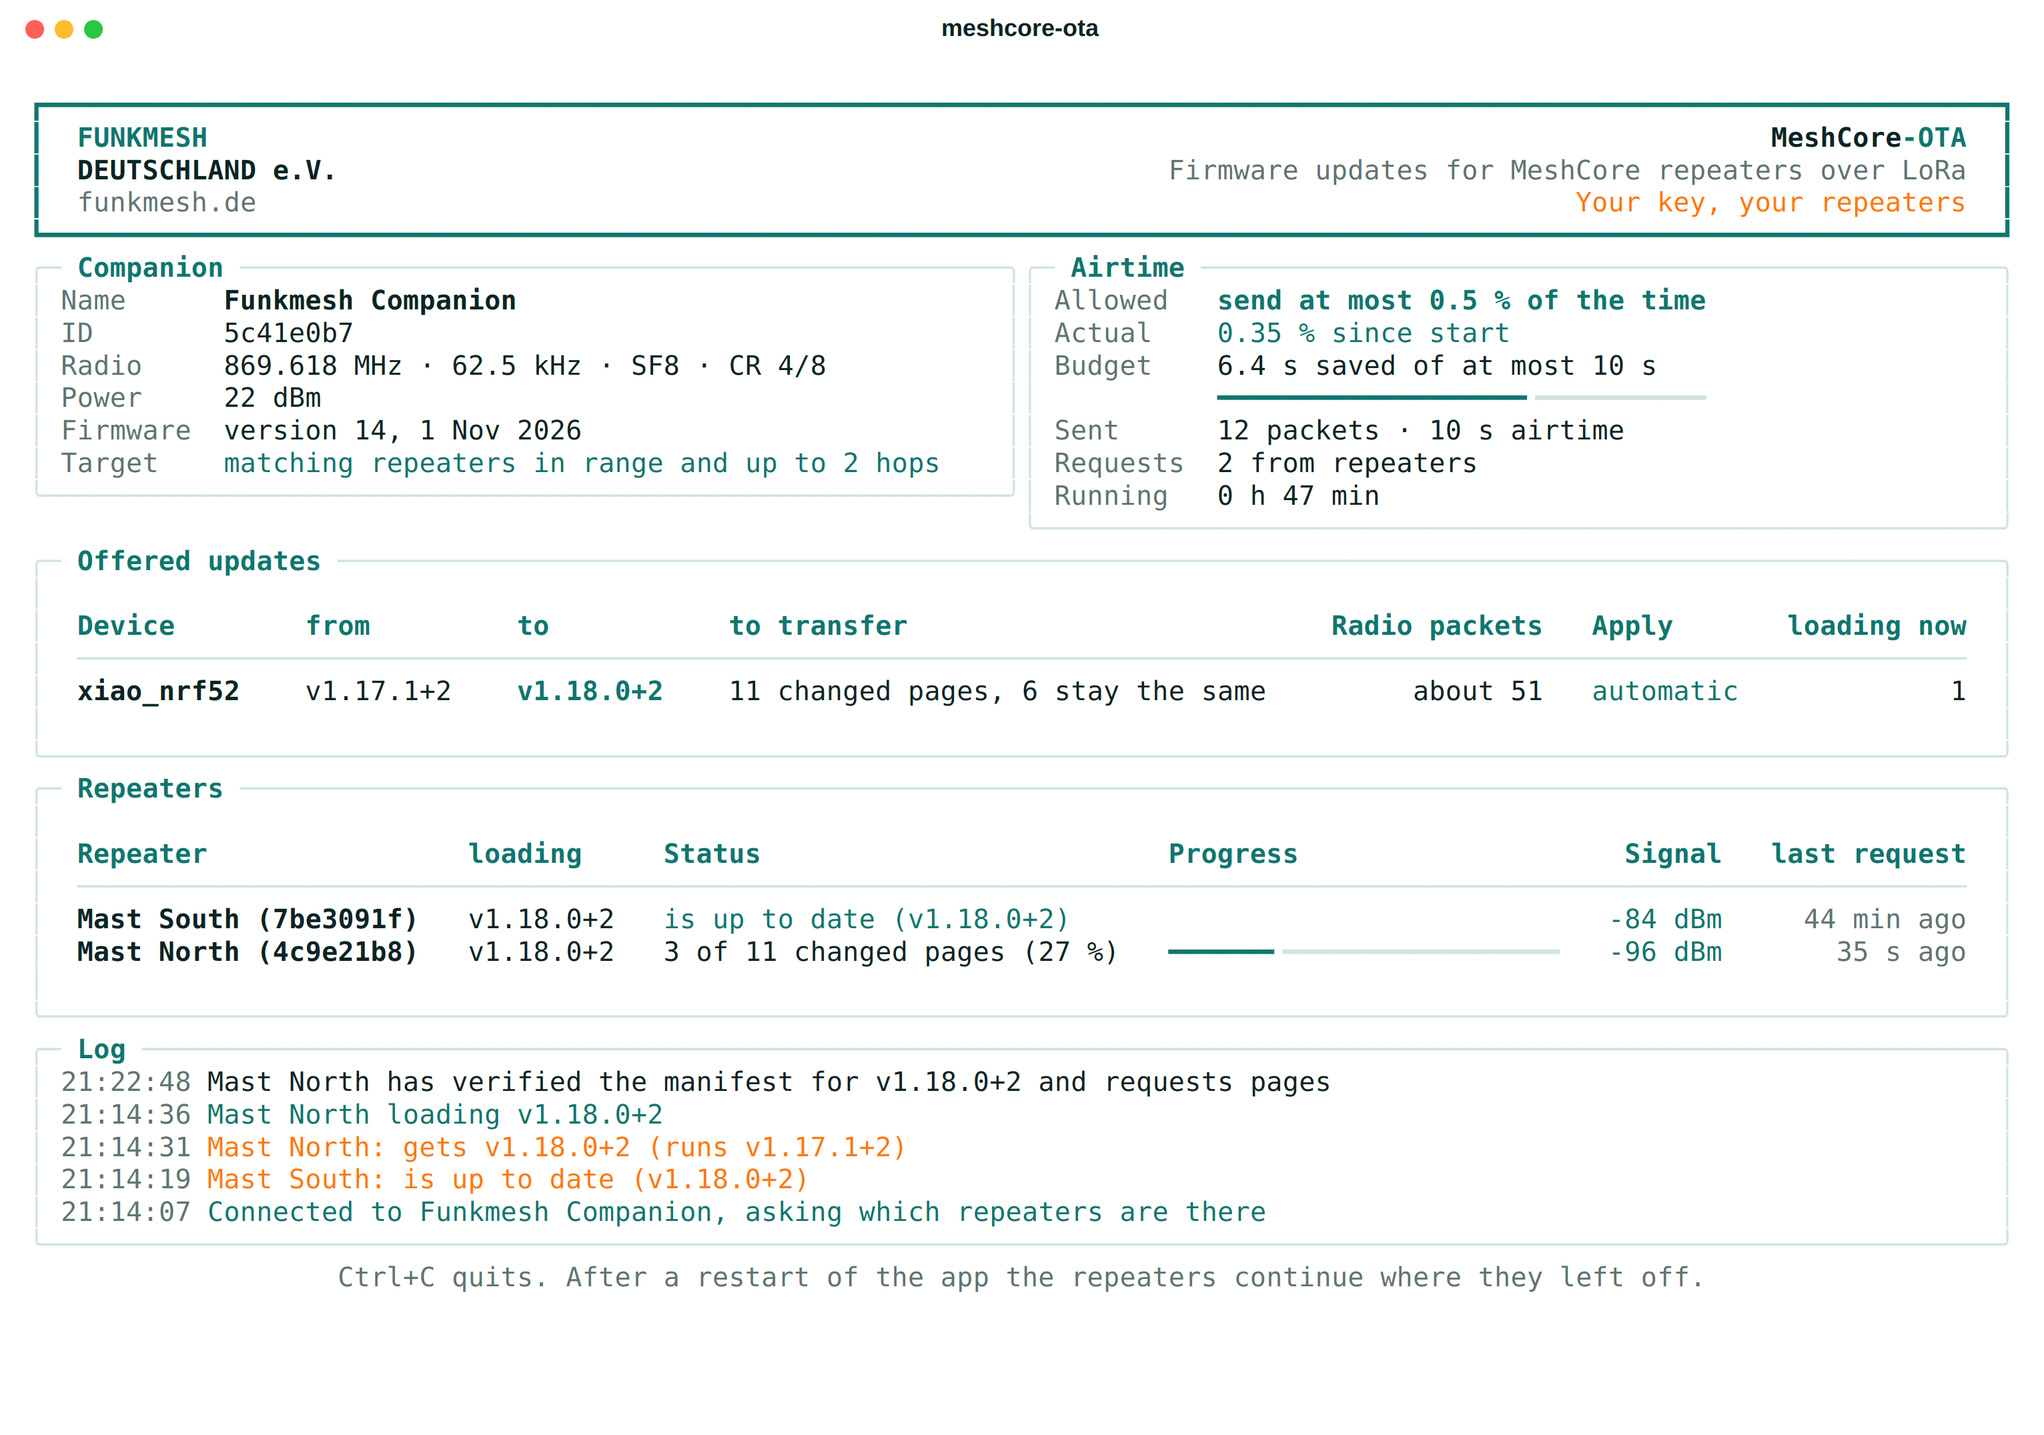
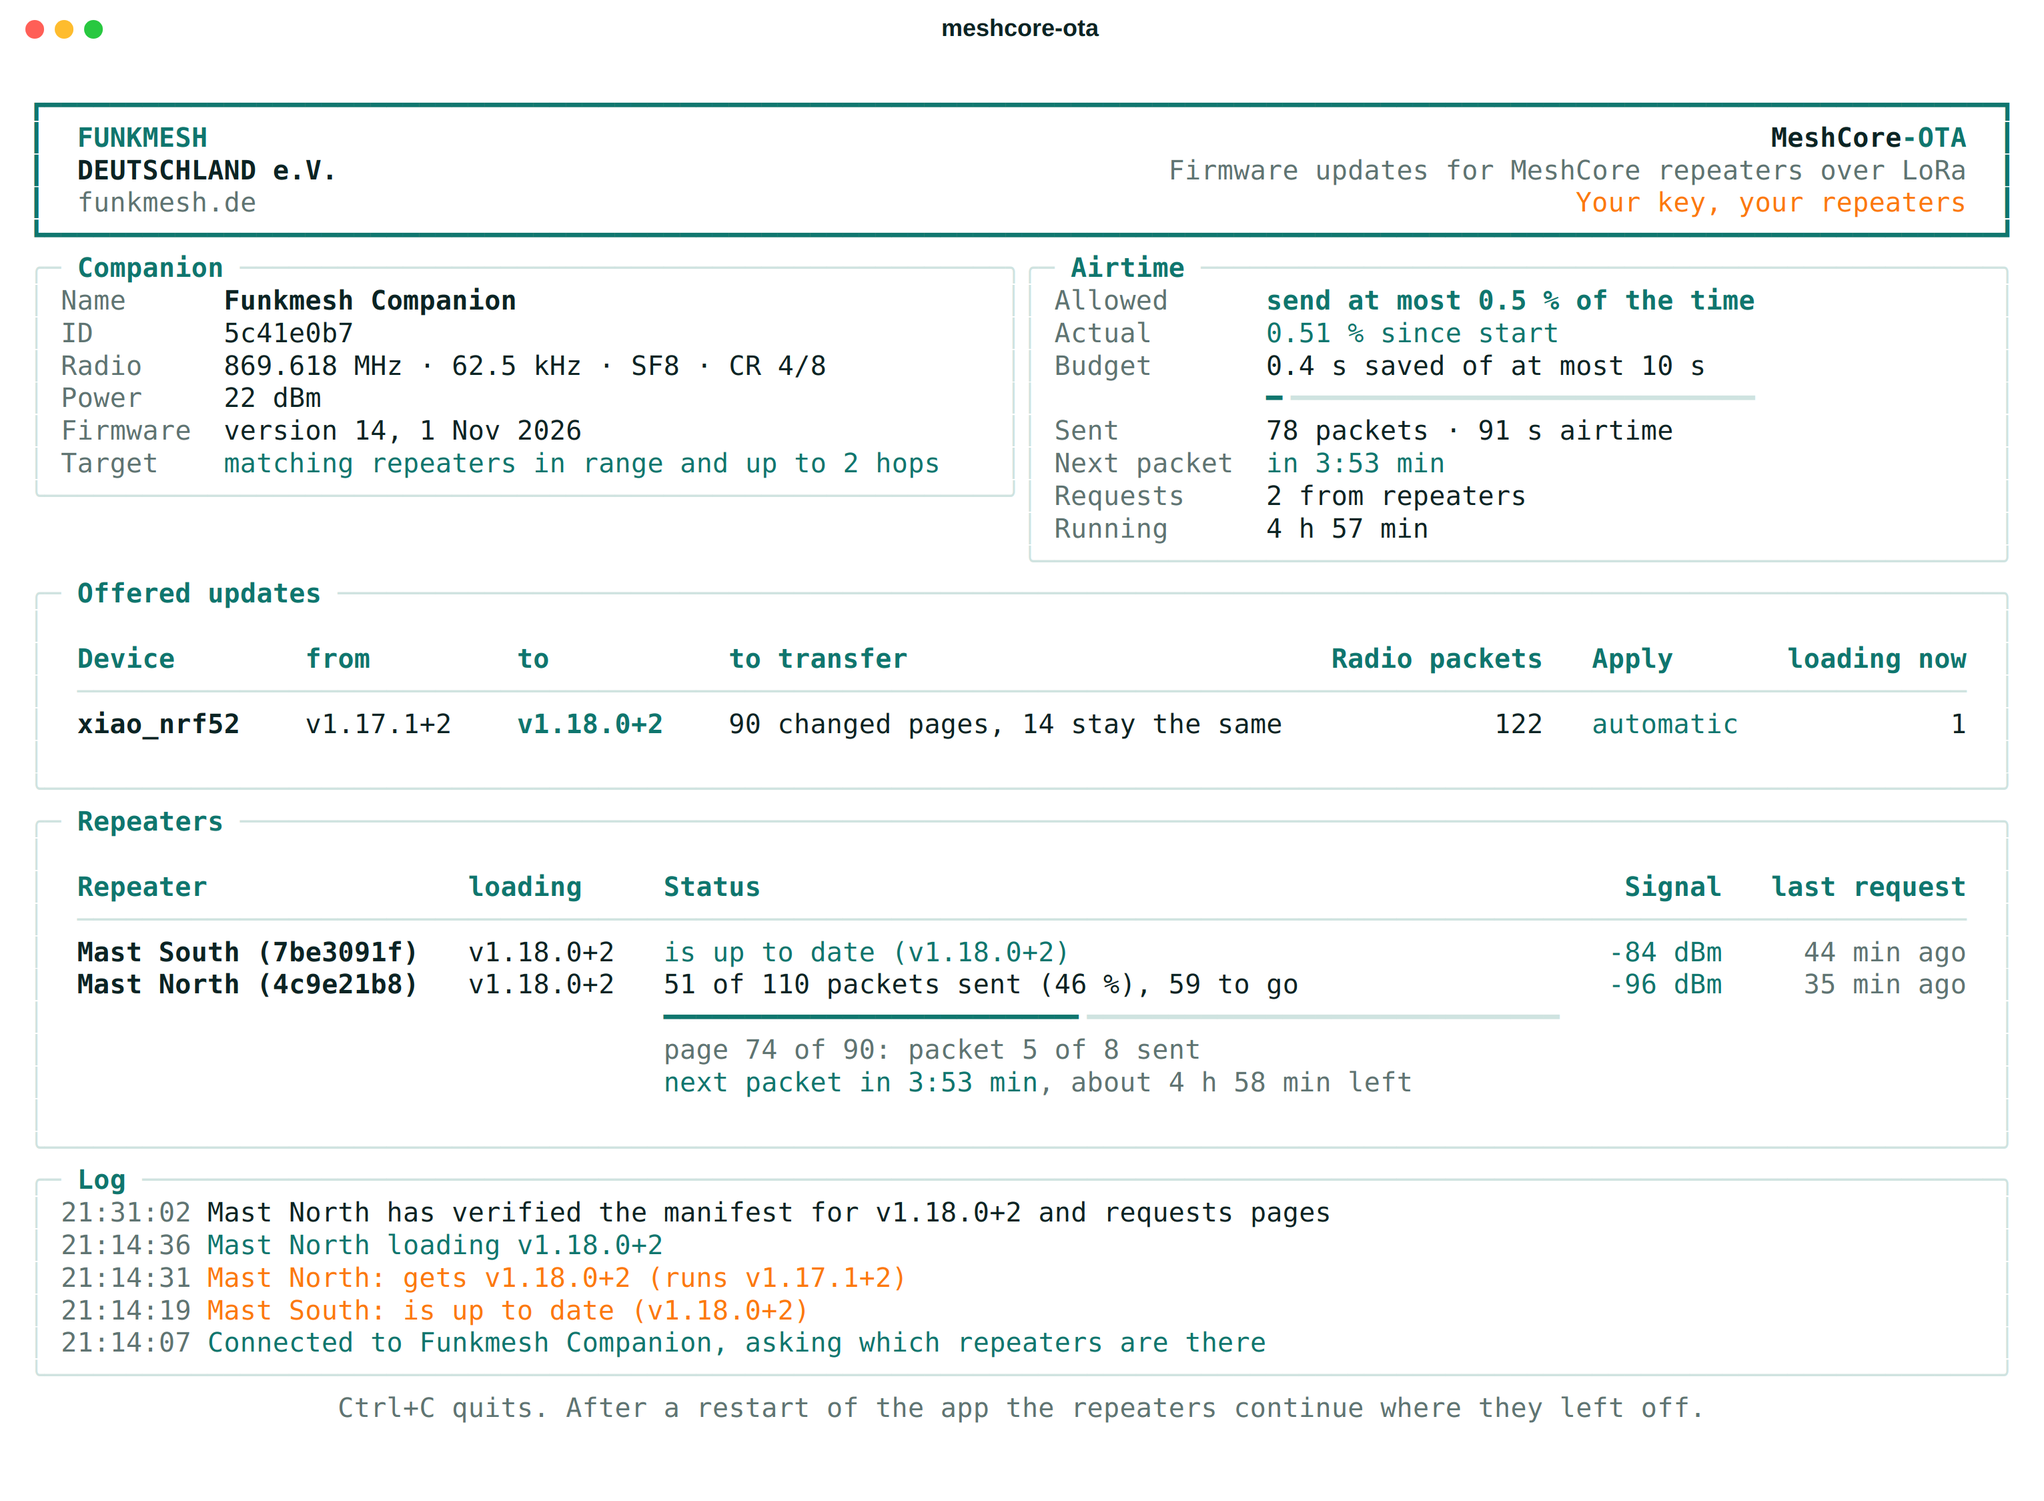
Show the progress packet by packet with the time until the next packet and the remaining time

diff --git a/tools/mcota_ui.py b/tools/mcota_ui.py
@@ -68,7 +68,7 @@ def panel(body, title):
     return Panel(body, title=f"[bold {TEAL}]{title}[/]", title_align="left", border_style=RAIL, box=box.ROUNDED, padding=(0, 1), style=BASE)
 
 
-def bar(done, total, width=28, color=TEAL):
+def bar(done, total, width=None, color=TEAL):
     return ProgressBar(total=max(total, 1), completed=min(done, total), width=width, complete_style=color, finished_style=TEAL, style=RAIL)
 
 
@@ -79,6 +79,13 @@ def age(seconds):
     if seconds < 5400:
         return f"{seconds // 60} min ago"
     return f"{seconds // 3600} h ago"
+
+
+def span(seconds):
+    seconds = int(seconds + 0.5)
+    if seconds < 3600:
+        return f"{seconds // 60}:{seconds % 60:02d} min"
+    return f"{seconds // 3600} h {seconds % 3600 // 60:02d} min"
 
 
 def version_of(manifest):
@@ -125,6 +132,17 @@ class Dashboard:
         left = len(provider.wants.get(bytes.fromhex(key), ()))
         left += sum(1 for entry in provider.repairs if entry[0] == 1)
         return "pages", changed - min(left, changed), changed
+
+    def packets(self, provider, key):
+        total = provider.packets_total()
+        left = min(total, provider.packets_left(bytes.fromhex(key)))
+        return total - left, total, left
+
+    def next_packet(self, provider):
+        wait = provider.next_in()
+        if wait is None and not provider.busy():
+            return None
+        return "next packet now" if wait is None or wait < 1.0 else f"next packet in {span(wait)}"
 
     def track(self):
         for key, (provider, peer) in self.current().items():
@@ -179,6 +197,13 @@ class Dashboard:
             grid.add_row("Budget", Text(f"{budget.ms / 1000:.1f} s saved of at most 10 s", style=DARK))
             grid.add_row("", bar(budget.ms, 10000.0, 30))
             grid.add_row("Sent", f"{sent} packets · {sent_ms / 1000:.0f} s airtime")
+            waits = [p.next_in() for p in self.providers if p.next_in() is not None]
+            if waits:
+                grid.add_row("Next packet", Text("now" if min(waits) < 1.0 else f"in {span(min(waits))}", style=TEAL))
+            elif any(p.busy() for p in self.providers):
+                grid.add_row("Next packet", Text("now", style=TEAL))
+            else:
+                grid.add_row("Next packet", Text("nothing waiting", style=DARK))
             grid.add_row("Requests", f"{sum(p.requests for p in self.providers)} from repeaters")
         minutes = int((time.monotonic() - self.started) // 60)
         grid.add_row("Running", f"{minutes // 60} h {minutes % 60:02d} min")
@@ -193,13 +218,13 @@ class Dashboard:
         for provider in self.providers:
             m = provider.manifest
             changed = sum(1 for block in provider.blocks if block)
-            packets = (len(m) + CHUNK - 1) // CHUNK + sum((len(b) + CHUNK - 1) // CHUNK for b in provider.blocks if len(b) > CHUNK) + (sum(len(b) for b in provider.blocks if 0 < len(b) <= CHUNK) + CHUNK - 1) // CHUNK
-            grid.add_row(board_of(m), getattr(provider, "old_version", "") or m[84:88].hex(), version_of(m), f"{changed} changed pages, {provider.pages - changed} stay the same", f"about {packets}",
+            packets = (len(m) + CHUNK - 1) // CHUNK + provider.packets_total()
+            grid.add_row(board_of(m), getattr(provider, "old_version", "") or m[84:88].hex(), version_of(m), f"{changed} changed pages, {provider.pages - changed} stay the same", str(packets),
                          Text("automatic", style=TEAL) if m[5] & 1 else Text("on command", style=ORANGE), str(loading.get(id(provider), 0) or ""))
         return panel(grid, "Offered updates")
 
     def peers_panel(self):
-        grid = table("Repeaters", [("Repeater", {"style": "bold"}), ("loading", {}), ("Status", {}), ("Progress", {"ratio": 1}),
+        grid = table("Repeaters", [("Repeater", {"style": "bold"}), ("loading", {}), ("Status", {"ratio": 1}),
                                   ("Signal", {"justify": "right"}), ("last request", {"justify": "right", "style": SOFT})])
         rows = 0
         loading = self.current()
@@ -211,20 +236,42 @@ class Dashboard:
             state = self.companion.states.get(key, "")
             rssi = hello.get("rssi")
             signal = Text(f"{hello['hops']} hops" if hello.get("hops", 0) > 1 else "1 hop", style=SOFT) if hello.get("hops") else (Text(f"{rssi} dBm", style=TEAL if rssi is not None and rssi > -100 else ORANGE) if rssi is not None else Text(""))
-            grid.add_row(label, hello["tag"] or "?", Text(state, style=TEAL if state.startswith("is up to date") else ORANGE), Text(""), signal, age(finder.now() - hello["at"]))
+            grid.add_row(label, hello["tag"] or "?", Text(state, style=TEAL if state.startswith("is up to date") else ORANGE), signal, age(finder.now() - hello["at"]))
             rows += 1
         for key, (provider, peer) in sorted(loading.items()):
             label = f"{self.name(key)} ({key})" if self.name(key) else key
             stage, done, total = self.progress(provider, key, peer)
+            upcoming = self.next_packet(provider)
+            detail = None
             if stage == "manifest":
-                status = Text(f"manifest, part {done} of {total}", style=ORANGE)
-            elif done >= total:
-                status = Text(f"all {total} changed pages sent" if total != 1 else "the one changed page sent", style=f"bold {TEAL}")
+                status = Text(f"manifest, packet {done} of {total} sent", style=ORANGE)
+                upcoming = Text(upcoming, style=TEAL) if upcoming else Text("waiting for the repeater", style=SOFT)
             else:
-                status = Text(f"{done} of {total} changed pages ({100 * done // max(total, 1)} %)")
+                sent, packets, left = self.packets(provider, key)
+                now = provider.current()
+                if left == 0:
+                    status = Text(f"all {packets} packets sent, {total} changed pages" if packets != 1 else "the one packet sent", style=f"bold {TEAL}")
+                    upcoming = Text("waiting for the repeater", style=SOFT)
+                else:
+                    status = Text(f"{sent} of {packets} packets sent ({100 * sent // max(packets, 1)} %), {left} to go")
+                    if now and now[0] == 1 and now[3] > 1:
+                        detail = Text(f"page {min(done + 1, total)} of {total}: packet {now[2]} of {now[3]} sent", style=SOFT)
+                    else:
+                        detail = Text(f"{done} of {total} changed pages sent", style=SOFT)
+                    upcoming = Text(upcoming or "next packet now", style=TEAL)
+                    upcoming.append(f", about {span(provider.time_left(bytes.fromhex(key)))} left", style=SOFT)
+                done, total = sent, packets
+            cell = Table.grid(expand=True)
+            cell.add_column(ratio=1)
+            cell.add_row(status)
+            cell.add_row(bar(done, total, None, ORANGE if stage == "manifest" else TEAL))
+            for line in (detail, upcoming):
+                if line:
+                    cell.add_row(line)
+            status = cell
             rssi = peer.get("rssi")
             signal = Text(f"{len(provider.hops)} hop" + ("s" if len(provider.hops) > 1 else ""), style=SOFT) if provider.hops else (Text(f"{rssi} dBm", style=TEAL if rssi is not None and rssi > -100 else ORANGE) if rssi is not None else Text(""))
-            grid.add_row(label, version_of(provider.manifest), status, bar(done, total, 32, ORANGE if stage == "manifest" else TEAL), signal, age(provider.now() - peer["at"]))
+            grid.add_row(label, version_of(provider.manifest), status, signal, age(provider.now() - peer["at"]))
             rows += 1
         if rows == 0:
             return panel(Align.center(Text("No repeater has reported yet. The query goes out at growing intervals.", style=SOFT)), "Repeaters")

diff --git a/tools/mcota_provider.py b/tools/mcota_provider.py
@@ -46,6 +46,10 @@ class Budget:
         self.ms -= cost
         return True
 
+    def wait(self, cost):
+        have = min(10000.0, self.ms + (self.now() - self.at) * 1000.0 * self.ppm / 1e6)
+        return max(0.0, (cost - have) * 1000.0 / self.ppm)
+
 
 class Finder:
     def __init__(self, self_id, key_id, airtime_ms, budget, first=3.0, least=30.0, most=1800.0, now=time.monotonic, rng=random.random):
@@ -212,6 +216,7 @@ class Provider:
         self.pongs = []
         self.sent = 0
         self.sent_ms = 0.0
+        self.waiting = 0.0
         self.received = 0
         self.requests = 0
         self.seeks = 0
@@ -329,15 +334,60 @@ class Provider:
     def busy(self):
         return bool(self.pongs or self.repairs or any(self.wants.values()))
 
+    def parts(self, kind, index):
+        item = self._item(kind, index)
+        return (len(item) + CHUNK - 1) // CHUNK if item else 0
+
+    def _packets(self, pages):
+        small = sorted(page for page in pages if len(self.blocks[page]) <= CHUNK)
+        count, i = sum(self.parts(1, page) for page in pages if len(self.blocks[page]) > CHUNK), 0
+        while i < len(small):
+            total, k = len(self.blocks[small[i]]), i + 1
+            while k < len(small) and k - i < 255 and small[k] == small[k - 1] + 1 and total + len(self.blocks[small[k]]) <= CHUNK:
+                total += len(self.blocks[small[k]])
+                k += 1
+            count += 1
+            i = k
+        return count
+
+    def packets_total(self):
+        return self._packets({page for page in range(self.pages) if self.blocks[page]})
+
+    def packets_left(self, peer=None):
+        queued = [entry for entry in self.repairs if entry[0] == 1]
+        wanted = set(self.wants.get(peer, ())) if peer else set().union(*self.wants.values())
+        return sum(bin(entry[2]).count("1") for entry in queued) + self._packets(wanted - {entry[1] for entry in queued})
+
+    def current(self):
+        if not self.repairs:
+            return None
+        kind, index, mask = self.repairs[0]
+        total = self.parts(kind, index)
+        return kind, index, total - min(total, bin(mask).count("1")), total
+
+    def packet_cost(self):
+        length = HEADER + 10 + CHUNK + 2
+        return self.airtime_ms(length + len(self.path)) * (len(self.hops) + 1)
+
+    def next_in(self):
+        return self.budget.wait(self.waiting) if self.waiting else None
+
+    def time_left(self, peer=None):
+        left = self.packets_left(peer)
+        return self.budget.wait(left * self.packet_cost()) if left else 0.0
+
     def poll(self):
         packet, what = self._next_packet()
         if packet is None:
+            self.waiting = 0.0
             return None
         routed = bool(self.hops) and what[0] != "pong"
         cost = self.airtime_ms(len(packet) + 2 + (len(self.path) if routed else 0)) * (len(self.hops) + 1 if routed else 1)
         if not self.budget.take(cost):
             self.sequence -= 1
+            self.waiting = cost
             return None
+        self.waiting = 0.0
         self.sent += 1
         self.sent_ms += cost
         self.last_path = self.path if routed else b""

diff --git a/sim/test_provider.py b/sim/test_provider.py
@@ -169,6 +169,39 @@ check(order == (3, 1, 3, True), f"offer is not repeated while data is waiting: {
 check(quiet[0] >= 500.0 and quiet[1] == 7 and quiet[2] == 0.0, f"time since the last query is not tracked: {quiet}")
 
 
+def progress():
+    clock = [0.0]
+    provider = Provider(manifest, blocks, bytes.fromhex("a1b2c3d4"), lambda n: 100.0, budget_ppm=50000, offer_min=10.0, offer_max=120.0,
+                        now=lambda: clock[0], rng=random.Random(4).random)
+    provider.offer_at = 1e9
+    peer = bytes.fromhex("77010203")
+    provider.wants[peer] = {page for page in range(provider.pages) if blocks[page]}
+    total, sent, steady, on_time, parts = provider.packets_total(), 0, True, True, 0
+    first = provider.packets_left(peer)
+    whole = provider.time_left(peer)
+    started = clock[0]
+    while provider.busy() and sent < 10000:
+        left = provider.packets_left(peer)
+        if provider.poll() is None:
+            wait = provider.next_in()
+            on_time = on_time and wait is not None and wait > 0.0
+            clock[0] += (wait or 0.0) + 0.001
+            on_time = on_time and provider.poll() is not None
+        sent += 1
+        steady = steady and provider.packets_left(peer) == left - 1
+        now = provider.current()
+        parts = max(parts, now[3] if now else 0)
+    return first, total, sent, steady, on_time, parts, provider.next_in(), whole, clock[0] - started
+
+
+first, total, sent, steady, on_time, parts, idle, whole, took = progress()
+check(first == total and sent == total and steady, f"packet count does not match what is sent: {first} waiting, {total} expected, {sent} sent, steady {steady}")
+check(on_time, "the next packet does not go out at the announced time")
+check(parts > 1, "no page with several packets in the test package")
+check(idle is None, "a waiting time is shown although nothing is waiting")
+check(whole > 0.0 and abs(whole - took) < 5.0, f"remaining time {whole:.0f} s does not fit the {took:.0f} s the transfer took")
+
+
 def both_queries():
     finder = Finder(bytes.fromhex("a1b2c3d4"), hashlib.sha256(open(os.path.join(fixture, "good.pub"), "rb").read()).digest()[:8],
                     lambda n: 1.0, Budget(50000, lambda: 0.0), now=lambda: 0.0, rng=random.Random(5).random)

diff --git a/tools/mcota.py b/tools/mcota.py
@@ -799,8 +799,10 @@ def send_packages(args, packages, old_versions, key_id=None, resolve=None, mine=
         for provider in providers:
             version = package_version(provider.manifest)
             for k, v in provider.peers.items():
-                left = len(provider.wants.get(bytes.fromhex(k), ()))
-                state = "fetching manifest" if v["kind"] == 0 else f"{left} of {provider.pages} pages still to send"
+                left = provider.packets_left(bytes.fromhex(k))
+                wait = provider.next_in()
+                state = "fetching manifest" if v["kind"] == 0 else "all packets sent" if not left else (
+                    f"{left} of {provider.packets_total()} packets still to send, next " + ("now" if not wait or wait < 1.0 else f"in {wait:.0f} s"))
                 parts.append(f"{k} loading {version}: {state} ({v['rssi']} dBm, {provider.now() - v['at']:.0f} s ago)")
         print(f"{time.strftime('%H:%M:%S')} sent {sum(p.sent for p in providers)} packets ({sum(p.sent_ms for p in providers) / 1000:.0f} s airtime), "
               f"requests {sum(p.requests for p in providers)}, repeaters: {'; '.join(parts) or 'nobody yet'}", flush=True)

diff --git a/docs/app.md b/docs/app.md
@@ -123,10 +123,21 @@ bluetoothctl
 | Panel | Contents |
 | --- | --- |
 | Companion | name, ID, radio parameters, transmit power and firmware of the companion |
-| Airtime | the configured limit, the actual share since start, and the saved-up airtime credit of at most 10 seconds |
+| Airtime | the configured limit, the actual share since start, the saved-up airtime credit of at most 10 seconds, and the time until the next packet goes out |
 | Offered updates | per package: device type, source build, target build, changed pages, number of radio packets, apply mode |
 | Repeaters | repeaters that have responded, with build, progress, signal or number of hops and time since the last request |
 | Log | the latest events |
+
+For a repeater that is loading, the status shows the progress packet by packet:
+
+| Line | Meaning |
+| --- | --- |
+| `51 of 110 packets sent (46 %), 59 to go` | radio packets of this update that are sent and that are still waiting. The bar below follows this count |
+| `page 74 of 90: packet 5 of 8 sent` | the page in progress. A page whose difference does not fit into one packet is split into several. Small pages share a packet, the line then counts the pages sent |
+| `next packet in 3:53 min, about 4 h 58 min left` | time until the airtime credit allows the next packet, and the time for the remaining packets at the configured airtime |
+| `waiting for the repeater` | everything requested is sent. The repeater checks what it has and requests what is missing |
+
+The packet count rises again when a repeater reports packets as lost. The remaining time covers sending only. Checking, applying and the trial boot on the repeater come on top.
 
 What the dashboard does:
 
